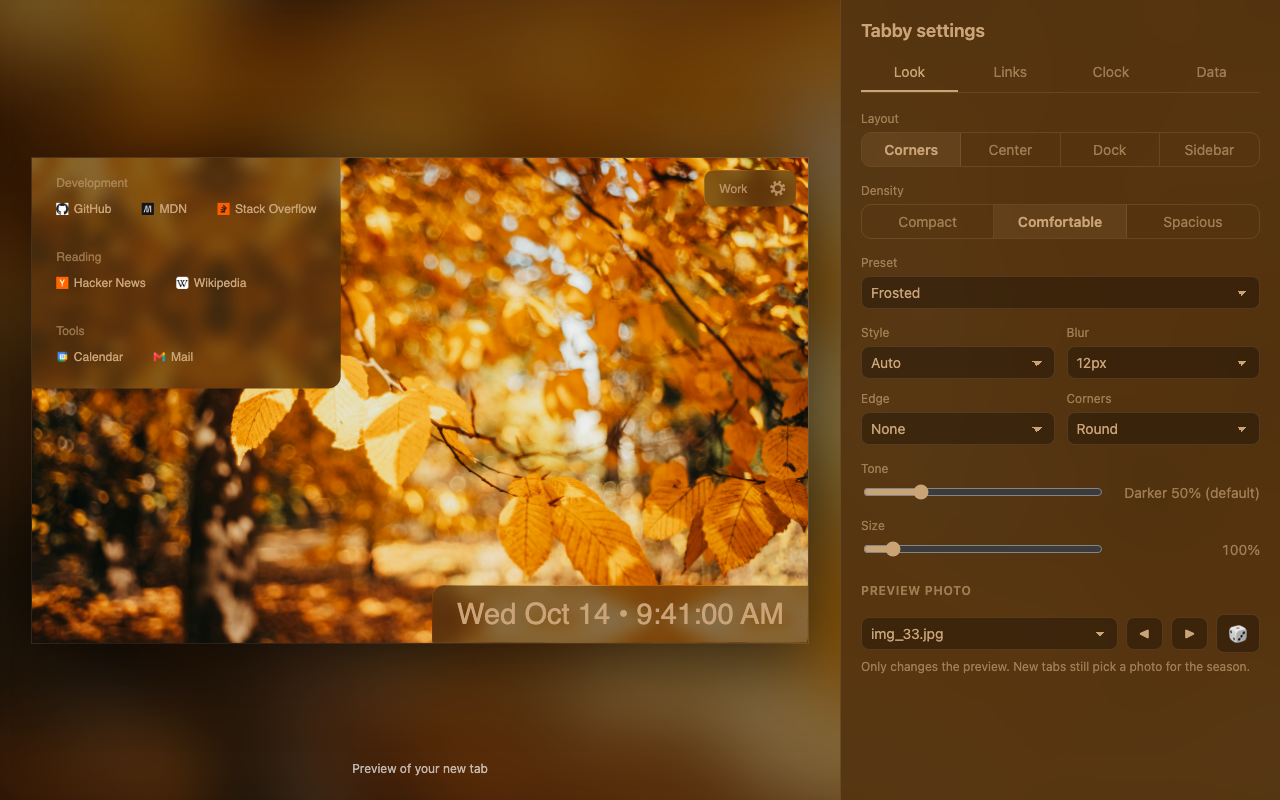
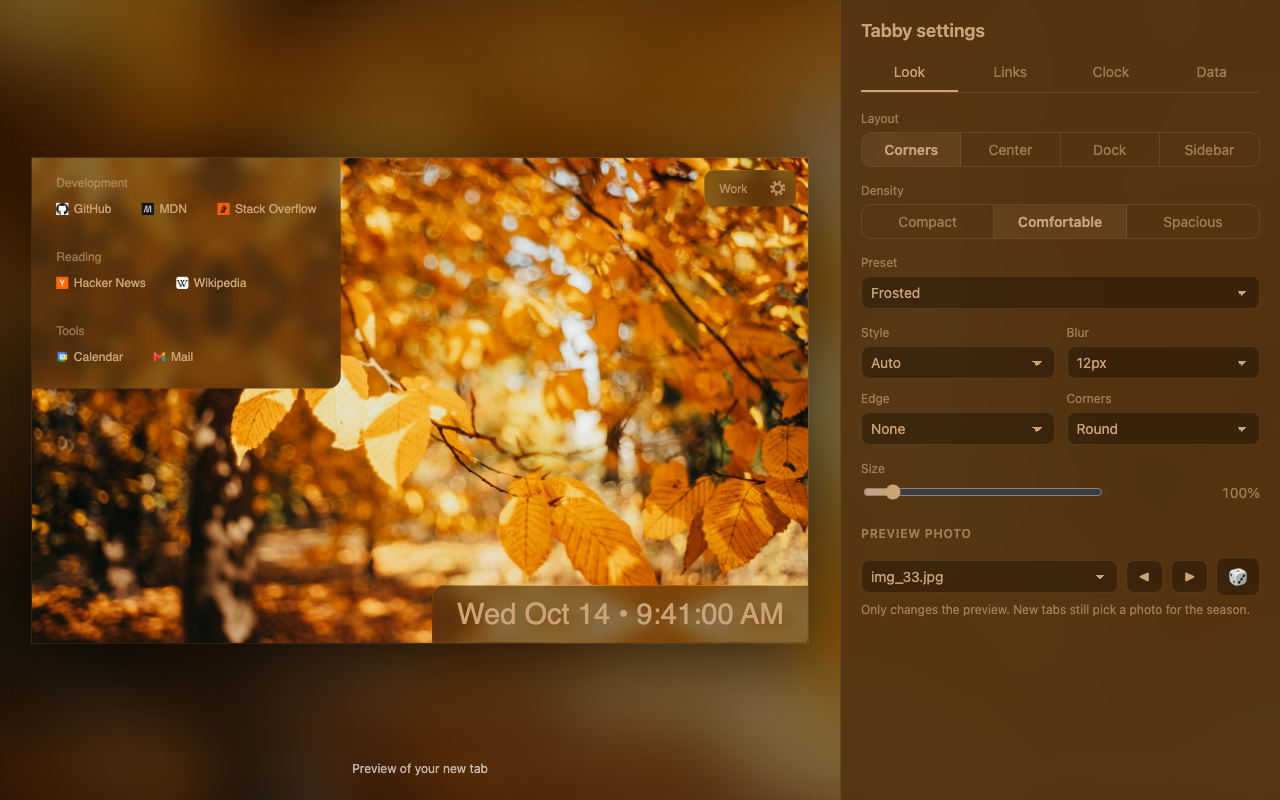
Drop the tone setting in favor of each style's default
Tone added a fiddly control for little gain; the per-style default
(50% toward black for dark panels, 60% toward white for light ones)
reads well on every photo. The slider, its reset and typed entry are
gone, presets no longer carry a tone, and a saved tone is dropped on
load.

Smoked, Tinted and Milk glass lose their custom tones; they still differ
from the other presets in style, blur, edge and corners.

Regenerates the store screenshots.

Changed region(s): [[0.6562, 0.6562, 1.0, 0.8438], [0.875, 0.5938, 0.9688, 0.625], [0.6875, 0.5938, 0.75, 0.625]]

diff --git a/render.js b/render.js
@@ -259,10 +259,8 @@ async function showBackground(imageUrl, look) {
   return rgb;
 }
 
-// Look settings: how the panels sit over the photo. tone runs from -90
-// (toward black) through 0 (the photo's average) to +90 (toward white);
-// null means the style's default, which keeps Auto and System readable on
-// both bright and dark photos. corners is in em, so it scales with the panel.
+// Look settings: how the panels sit over the photo. corners is in em, so it
+// scales with the panel.
 const LOOK_STYLES = ["auto", "dark", "light", "system"];
 const LOOK_EDGES = ["none", "line"];
 // How much room the panels give their content: link padding, space between
@@ -270,20 +268,22 @@ const LOOK_EDGES = ["none", "line"];
 const LOOK_DENSITIES = ["compact", "comfortable", "spacious"];
 const LOOK_LAYOUTS = ["corners", "center", "dock", "sidebar"];
 const LOOK_PRESETS = [
-  { name: "Clear glass", style: "auto", blur: 6, edge: "line", tone: null, corners: 0.75 },
-  { name: "Frosted", style: "auto", blur: 12, edge: "none", tone: null, corners: 1 },
-  { name: "Heavy frost", style: "auto", blur: 24, edge: "none", tone: null, corners: 1 },
-  { name: "Smoked", style: "dark", blur: 12, edge: "none", tone: -65, corners: 0.75 },
-  { name: "Tinted", style: "dark", blur: 18, edge: "line", tone: -30, corners: 1.5 },
-  { name: "Milk glass", style: "light", blur: 18, edge: "line", tone: 70, corners: 1 },
-  { name: "Square", style: "auto", blur: 6, edge: "none", tone: null, corners: 0 },
-  { name: "Pill", style: "auto", blur: 12, edge: "line", tone: null, corners: 2 },
-  { name: "Follow system", style: "system", blur: 12, edge: "line", tone: null, corners: 1 },
+  { name: "Clear glass", style: "auto", blur: 6, edge: "line", corners: 0.75 },
+  { name: "Frosted", style: "auto", blur: 12, edge: "none", corners: 1 },
+  { name: "Heavy frost", style: "auto", blur: 24, edge: "none", corners: 1 },
+  { name: "Smoked", style: "dark", blur: 12, edge: "none", corners: 0.75 },
+  { name: "Tinted", style: "dark", blur: 18, edge: "line", corners: 1.5 },
+  { name: "Milk glass", style: "light", blur: 18, edge: "line", corners: 1 },
+  { name: "Square", style: "auto", blur: 6, edge: "none", corners: 0 },
+  { name: "Pill", style: "auto", blur: 12, edge: "line", corners: 2 },
+  { name: "Follow system", style: "system", blur: 12, edge: "line", corners: 1 },
 ];
 // Relative luminance above this means the photo is bright enough that a
 // light panel with dark text reads better than the usual dark panel
 const LIGHT_PANEL_THRESHOLD = 0.45;
-const DEFAULT_TONE = { dark: -50, light: 60 };
+// How far the panel moves from the photo's average color: toward black for
+// dark panels, toward white for light ones
+const PANEL_TONE = { dark: -50, light: 60 };
 const PANEL_ALPHA = "aa";
 const LINE_STRENGTH = "45%";
 
@@ -305,14 +305,14 @@ function resolveLookStyle(style, rgb) {
 }
 
 // Panel and text colors (opaque hex) for a look over a photo, plus whether
-// the panel came out light or dark and the tone actually used
+// the panel came out light or dark
 function lookColors(look, rgb) {
   const resolved = resolveLookStyle(look.style, rgb);
-  const tone = look.tone ?? DEFAULT_TONE[resolved];
+  const tone = PANEL_TONE[resolved];
   const amount = Math.abs(tone) / 100;
   const panel = tone >= 0 ? lightenColor(rgb, amount) : darkenColor(rgb, amount);
   const text = resolved === "light" ? darkenColor(rgb, 0.7) : lightenColor(rgb, 0.4);
-  return { panel: rgbToHex(panel), text: rgbToHex(text), resolved, tone };
+  return { panel: rgbToHex(panel), text: rgbToHex(text), resolved };
 }
 
 function applyLayout(look) {

diff --git a/options.js b/options.js
@@ -714,7 +714,7 @@ const fillSelect = (select, entries) => {
 
 const matchingPreset = (look) =>
   LOOK_PRESETS.find((preset) =>
-    ["style", "blur", "edge", "tone", "corners"].every((key) => preset[key] === look[key]),
+    ["style", "blur", "edge", "corners"].every((key) => preset[key] === look[key]),
   );
 
 function renderLook() {
@@ -730,23 +730,7 @@ function renderLook() {
   document.getElementById("look-blur").value = look.blur;
   document.getElementById("look-edge").value = look.edge;
   document.getElementById("look-corners").value = look.corners;
-  renderTone();
   applyDrawerTheme();
-}
-
-// The tone's default depends on the photo (Auto) or the OS (System), so it's
-// shown once the preview photo's color is known
-function renderTone() {
-  const look = meta.settings.look;
-  const tone = previewRgb ? lookColors(look, previewRgb).tone : (look.tone ?? 0);
-  const custom = look.tone !== null;
-  document.getElementById("look-tone").value = tone;
-  const direction =
-    tone === 0 ? "Photo color" : `${tone > 0 ? "Lighter" : "Darker"} ${Math.abs(tone)}%`;
-  document.getElementById("look-tone-value").textContent = custom
-    ? direction
-    : `${direction} (default)`;
-  document.getElementById("look-tone-reset").hidden = !custom;
 }
 
 function updateLook(changes, { debounce = false } = {}) {
@@ -790,22 +774,6 @@ function setupLook() {
   );
   document.getElementById("look-corners").addEventListener("change", (e) =>
     updateLook({ corners: Number(e.target.value) }),
-  );
-  // Debounced while dragging, like the size sliders
-  document.getElementById("look-tone").addEventListener("input", (e) =>
-    updateLook({ tone: Number(e.target.value) }, { debounce: true }),
-  );
-  const toneSlider = document.getElementById("look-tone");
-  makeValueEditable(document.getElementById("look-tone-value"), {
-    // Negative is darker, positive lighter, as on the slider
-    get: () => Number(toneSlider.value),
-    set: (tone) => updateLook({ tone }),
-    min: Number(toneSlider.min),
-    max: Number(toneSlider.max),
-    label: "Tone, negative darker and positive lighter",
-  });
-  document.getElementById("look-tone-reset").addEventListener("click", () =>
-    updateLook({ tone: null }),
   );
   systemDark.addEventListener("change", renderLook);
 }

diff --git a/options.html b/options.html
@@ -337,23 +337,6 @@
         border-color: var(--danger);
       }
 
-      .field-head {
-        display: flex;
-        justify-content: space-between;
-        align-items: baseline;
-        color: var(--ink-muted);
-        font-size: 12px;
-      }
-
-      .field-head .link-add {
-        font-size: 12px;
-        padding: 0;
-      }
-
-      .field-head [hidden] {
-        display: none;
-      }
-
       /* Small icon buttons on each row, shown on hover so the list stays calm */
       .icon-btn {
         width: 28px;
@@ -658,17 +641,6 @@
             <div class="field">
               <label for="look-corners">Corners</label>
               <select id="look-corners"></select>
-            </div>
-          </div>
-
-          <div class="field">
-            <div class="field-head">
-              <label for="look-tone">Tone</label>
-              <button class="link-add" id="look-tone-reset" title="Back to the style's default tone" hidden>↺ Reset</button>
-            </div>
-            <div class="field-row">
-              <input type="range" id="look-tone" min="-90" max="90" step="5" />
-              <span class="value" id="look-tone-value"></span>
             </div>
           </div>
 

diff --git a/storage.js b/storage.js
@@ -27,7 +27,6 @@ const defaultSettings = {
     style: "auto",
     blur: 12,
     edge: "none",
-    tone: null,
     corners: 1,
     density: "comfortable",
   },
@@ -89,10 +88,12 @@ const backfillSettings = (meta) => {
   // Backfill settings added after the meta was first written; look is merged
   // a level deeper so newly added look fields get defaults too
   const { linksScale, clockScale, ...current } = stored;
+  // Tone was a look setting briefly; panels always use the style's tone now
+  const { tone, ...storedLook } = stored.look ?? {};
   meta.settings = {
     ...defaultSettings,
     ...current,
-    look: { ...defaultSettings.look, ...stored.look },
+    look: { ...defaultSettings.look, ...storedLook },
     // Links and clock used to have separate sizes; the links size carries
     // over as the shared one
     scale: stored.scale ?? linksScale ?? defaultSettings.scale,
